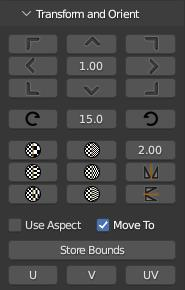
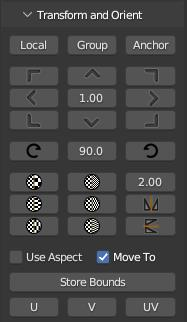
updating docs
Updating docs to reflect changes made to fix github issue #2

Changed region(s): [[0.027, 0.0931, 0.9459, 0.9931], [0.1892, 0.031, 0.7838, 0.0621], [0.1081, 0.031, 0.1622, 0.0621]]

diff --git a/docs/source/uv.rst b/docs/source/uv.rst
@@ -188,16 +188,22 @@ change the icons and functionality of the button.
 The uv tools are divided into four categories: Move/Slam, Rotate, Scale, and Fit. See below for breakdowns.
 
 
+GUI State Buttons
+-----------------
+
+The top row of buttons in the GUI manages the state of the UI. Toggling these buttons will modify the UI to expose different ops. See below for more info.
+
+
 Move/Slam
 ---------
 
 * ``Move``: Pressing the directional buttons will offset the uv selection by the amount specified in the center of the Move GUI buttons.
 
-* ``Slam``: Holding down **Shift** will modify the direction buttons to include a grey dot. Pressing these will move the uv selection such that its bounds are flush with a side/corner of the unit uv square.
+* ``Slam``: Toggling ON the **Group** button will modify the direction buttons to include a grey dot. Pressing these will move the uv selection such that its bounds are flush with a side/corner of the unit uv square.
 
-* ``Local Slam``: Holding down **Ctrl** will also change the direction button style; this time with a yellow dot. Pressing these will evaluate each selected uv-discontinuous element individually and move their respective bounds such that they are flush with a side/corner of the unit uv square.
+* ``Local Slam``: Toggling ON the **Local** button to will also change the direction button style; this time with a yellow dot. Pressing these will evaluate each selected uv-discontinuous element individually and move their respective bounds such that they are flush with a side/corner of the unit uv square.
 
-* ``Anchor`` : Holding down **Alt** changes the directional button stile to include a red dot. Pressing these will toggle the state of the anchor for future transformations. An **Anchor** is a pinned corner or side of a bounding box. Subsequent transformations are done relative to this anchor. For example, anchoring the top left corner and rotating using the ``Rotate`` buttons below will rotate about the top left corner of the selection. This can be particularly useful for things like scale and flip operations as well.
+* ``Anchor`` : Toggling ON the **Anchor** button changes the directional button stile to include a red dot. Pressing these will toggle the state of the anchor for future transformations. An **Anchor** is a pinned corner or side of a bounding box. Subsequent transformations are done relative to this anchor. For example, anchoring the top left corner and rotating using the ``Rotate`` buttons below will rotate about the top left corner of the selection. This can be particularly useful for things like scale and flip operations as well.
 
 
 Rotate
@@ -205,7 +211,7 @@ Rotate
 
 * ``Rotate``: Pressing the rotate buttons will rotate clockwise or counter-clockwise by the angle amount specified in the center of the Rotate GUI buttons. If an **Anchor** point is set, rotations are done about the point in the evaluated bounds.
 
-* ``Rotate Local``: Holding down **Ctrl** will change the rotate button style; this time with a yellow **L**. Pressing these will evaluate each selected uv-discontinuous element individually and move their separately. If an **Anchor** point is set, rotations are done about the point in the evaluated bounds.
+* ``Rotate Local``: Toggling ON the **Local** button will change the rotate button style; this time with a yellow **L**. Pressing these will evaluate each selected uv-discontinuous element individually and move their separately. If an **Anchor** point is set, rotations are done about the point in the evaluated bounds.
 
 
 Scale
@@ -213,7 +219,7 @@ Scale
 
 * ``Scale``: Pressing the scale buttons will scale the uv selection by the scale factor specified in the top right of the Scale GUI buttons. The first column is for scaling up, and the second column is for scaling down. The first row is for **UV** scaling, the second row is for **U** scaling, and the third is for **V** scaling. The two buttons on the bottom right are for flipping about **V** and **U** respectively. If an **Anchor** point is set, scaling is done relative to a point in the evaluated bounds.
 
-* ``Local Scale``: Holding down **Ctrl** will change the scale button style; this time with a yellow **L**. Pressing these will evaluate each selected uv-discontinuous element individually and move their separately. If an **Anchor** point is set, scaling is done relative to a point in the evaluated bounds.
+* ``Local Scale``: Toggling ON the **Local** button will change the scale button style; this time with a yellow **L**. Pressing these will evaluate each selected uv-discontinuous element individually and move their separately. If an **Anchor** point is set, scaling is done relative to a point in the evaluated bounds.
 
 
 Fit
@@ -233,9 +239,9 @@ The purpose of the ``Fit`` tools is to map the selected uv elements to a cached 
 
 * When ``Move To`` is checked, the current uv selection will be moved to the center of the cached bounds during a mapping.
 
-* **Fit Local**: Holding down **Ctrl** will change the fit buttons to read **LU**. Pressing these will perform a fit operation on each uv-discontinuous element separately.
+* **Fit Local**: Toggling ON the **Local** button will change the fit buttons to read **LU**. Pressing these will perform a fit operation on each uv-discontinuous element separately.
 
-* **Fit Grid**: Holding down **Shift** will change the fit buttons to read **GU**. Pressing these will fit to the unit square rather than the cached bounds.
+* **Fit Grid**: Toggling ON the **Group** button will change the fit buttons to read **GU**. Pressing these will fit to the unit square rather than the cached bounds.
 
 
 .. _hotspot:

diff --git a/docs/source/layers.rst b/docs/source/layers.rst
@@ -47,13 +47,11 @@ the Split Normal data by only considering neighboring faces that are members of 
 
 * Pressing the ``-`` button will clear selected faces from the set.
 
-* Holding down **Ctrl** will expose a ``++`` button which first clears set membership for all visible faces (for the relevant selection set row) and then adds the selected faces to the selection set.
+* Pressint the ``++`` button first clears set membership for all visible faces (for the relevant selection set row) and then adds the selected faces to the selection set.
 
 * Pressing one of the ``SEL#`` buttons will select faces that are members of that set.
 
-* Pressing ``Apply`` button will compute Split Normals data for the relevant set.
-
-* Pressing the ``ALL`` button will run the ``Apply`` for each selection set.
+* Pressing the ``APPLY`` button will compute the Split Normals data for each selection set in order.
 
 * Toggling the ``Area Weights`` button will weigh generated Split Normals based on the surface area of neighboring faces.
 
@@ -61,7 +59,7 @@ So, what faces get added to selection sets?
 First let’s define the problem: We want to make sure that edges and corners (even sharp ones) are slightly rounded. We also want smooth contiguous surfaces to have
 defined boundaries and the area between boundaries to have a nice transition.
 Thus, we assign each boundary to the same selection set and exclude a trim of faces between each boundary (or loop of sharp edges). When we compute the Split Normals
-by pressing ``Apply`` or ``ALL`` the result will be smooth shading within surfaces and a nice transition between each surface.
+by pressing ``APPLY`` the result will be smooth shading within surfaces and a nice transition between each surface.
 We can refine the shading of each surface by giving some faces membership to the other selection set.
 The video below demonstrates some simple and more complex cases:
 
